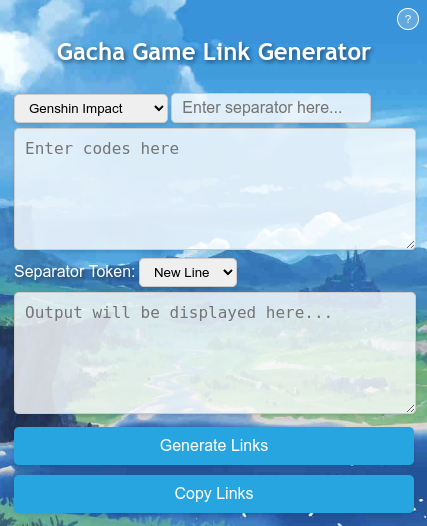
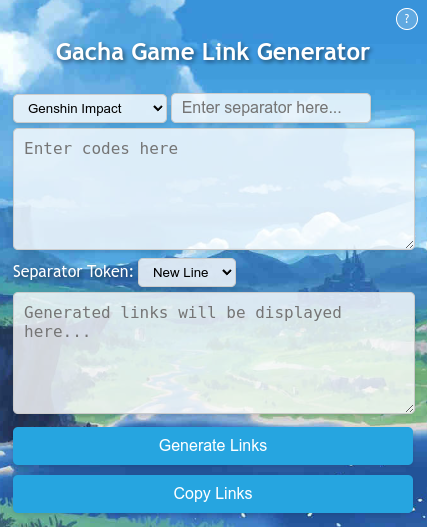
feat: added new transition to help menu, and small button behavior, some css additions

diff --git a/popup.html b/popup.html
@@ -2,16 +2,22 @@
 <html>
 <head>
   <style>
+
+    /* CSS Variables */
     :root {
         --primary-color: rgb(38, 165, 224);
         --primary-color-dark: rgb(34, 141, 190);
+
+        --font-family: 'Trebuchet MS', 'Lucida Sans Unicode', 'Lucida Grande', 'Lucida Sans', Arial, sans-serif;
+   
+        --inputs-opacity: 0.8;
     }
 
     body {
       background: url('bg.jpg');
       background-position: center;
       background-size: cover;
-      font-family: Arial, sans-serif;
+      font-family: var(--font-family);
       width: 400px;
       margin: 0;
       padding: 10px;
@@ -21,7 +27,7 @@
       text-align: center;
       color: white;
       font-size: 24px;
-      font-family:'Trebuchet MS', 'Lucida Sans Unicode', 'Lucida Grande', 'Lucida Sans', Arial, sans-serif;
+      font-family: var(--font-family);
       text-shadow: 2px 2px 4px rgba(0, 0, 0, 0.5);
     }
 
@@ -34,6 +40,14 @@
         padding-right: 10px;
         border: 1px solid #ccc;
         box-shadow: 0 2px 4px rgba(0, 0, 0, 0.1);
+        background-color: rgba(255, 255, 2555, var(--inputs-opacity));
+    }
+
+    
+
+    option {
+        font-size: 16px;
+        font-family: var(--font-family);
     }
 
     button {
@@ -53,6 +67,12 @@
       background-color: var(--primary-color-dark);
     }
 
+    button:active {
+        background-color: var(--primary-color-dark);
+        box-shadow: inset 0 2px 4px rgba(0, 0, 0, 0.2);
+        transform: translateY(2px);
+    }
+
     label {
         font-size: 16px;
         margin-top: 5px;
@@ -69,7 +89,7 @@
         padding: 10px;
         border: 1px solid #ccc;
         box-shadow: 0 2px 4px rgba(0, 0, 0, 0.1);
-        background-color: rgba(255, 255, 2555, 0.8);
+        background-color: rgba(255, 255, 2555, var(--inputs-opacity));
     }
 
     input {
@@ -80,7 +100,7 @@
         padding-bottom: 5px;
         border: 1px solid #ccc;
         box-shadow: 0 2px 4px rgba(0, 0, 0, 0.1);
-        background-color: rgba(255, 255, 2555, 0.8);
+        background-color: rgba(255, 255, 2555, var(--inputs-opacity));
     }
 
     body {
@@ -100,10 +120,11 @@
         text-align: center;
         line-height: 20px;
         cursor: pointer;
+        user-select: none;
     }
 
-    #help-modal-cont {
-        display: none;
+    .help-modal-outer {
+        display: flex;
         justify-content: center;
         align-items: center;
         position: fixed;
@@ -116,35 +137,61 @@
         padding: 20px;
         box-sizing: border-box;
         backdrop-filter: blur(5px);
+
+        opacity: 0;
+        pointer-events: none;
+        transition: opacity 0.3s ease;
+        z-index: 1000;
     }
+
+    /* Active state */
+    .modal-active {
+        opacity: 1;
+        pointer-events: all;
+    }
+
+    .modal-active .help-modal-inner {
+        transform: scale(.9);
+        opacity: 1;
+    }
+
+
 
     .help-modal-inner {
         background-color: rgba(0, 0, 0, 0.5);
         color: black;
         padding: 20px;
+        margin: 20px;
         border-radius: 5px;
         box-shadow: 0 2px 4px rgba(0, 0, 0, 0.1);
+
+        /* Initial hidden state */
+        transform: scale(0); 
+        opacity: 0;
+        transition: transform 0.3s ease, opacity 0.3s ease;
+        text-align: center;
+        width: 300px;
     }
 
-    #help-modal-cont h3 {
+    .help-modal-inner h3 {
         text-align: center;
         margin-top: 5px;
     }
 
-    #help-modal-cont p {
+    .help-modal-inner p {
         margin-top: 10px;
         margin-bottom: 10px;
         color: white;
         font-size: 1rem;
     }
 
-    #help-modal-cont .author {
+    .help-modal-inner .author {
         font-size: 1.2rem;
         font-style: italic;
         font-weight: bold;
     }
 
-    #help-modal-cont .link {
+    .help-modal-inner .link {
         color: var(--primary-color);
         text-decoration: none;
         font-size: 1rem;
@@ -168,11 +215,11 @@
     <option value=",">Comma</option>
     <option value=" ">Space</option>
   </select> 
-  <textarea id="gen-links" readonly placeholder="Output will be displayed here..."></textarea>
+  <textarea id="gen-links" readonly placeholder="Generated links will be displayed here..."></textarea>
   <button id="gen-links-btn">Generate Links</button>
   <button id="copy-links-btn"></button>
 
-  <div id="help-modal-cont">
+  <div id="help-modal-cont" class="help-modal-outer">
     <div class="help-modal-inner">
         <h3>Help</h3>
         <p>1. Select the game you want to generate links for.</p>

diff --git a/popup.js b/popup.js
@@ -52,10 +52,20 @@ document.getElementById("copy-links-btn").addEventListener("click", (el) => {
     });
 });
 
-document.getElementById("help-modal-btn").addEventListener("click", () => {
-    document.getElementById("help-modal-cont").style.display = "flex";
+document.getElementById("help-modal-btn").addEventListener("click", (event) => {
+    const helpModal = document.getElementById("help-modal-cont");
+    openModal(helpModal );
 });
 
-document.getElementById("help-modal-cont").addEventListener("click", () => {
-    document.getElementById("help-modal-cont").style.display = "none";
+document.getElementById("help-modal-cont").addEventListener("click", (event) => {
+    closeModal(event.target);
 });
+
+function openModal(helpModal) {
+    helpModal.classList.add('modal-active');
+  }
+  
+  // Function to close modal
+  function closeModal(helpModal) {
+    helpModal.classList.remove('modal-active');
+  }
